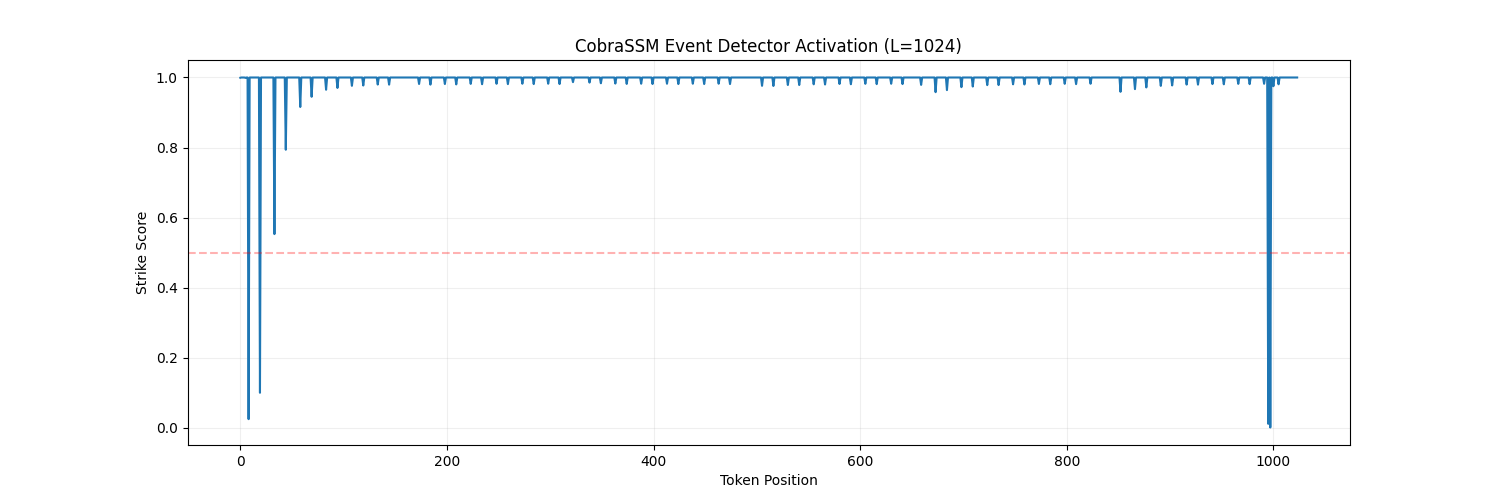
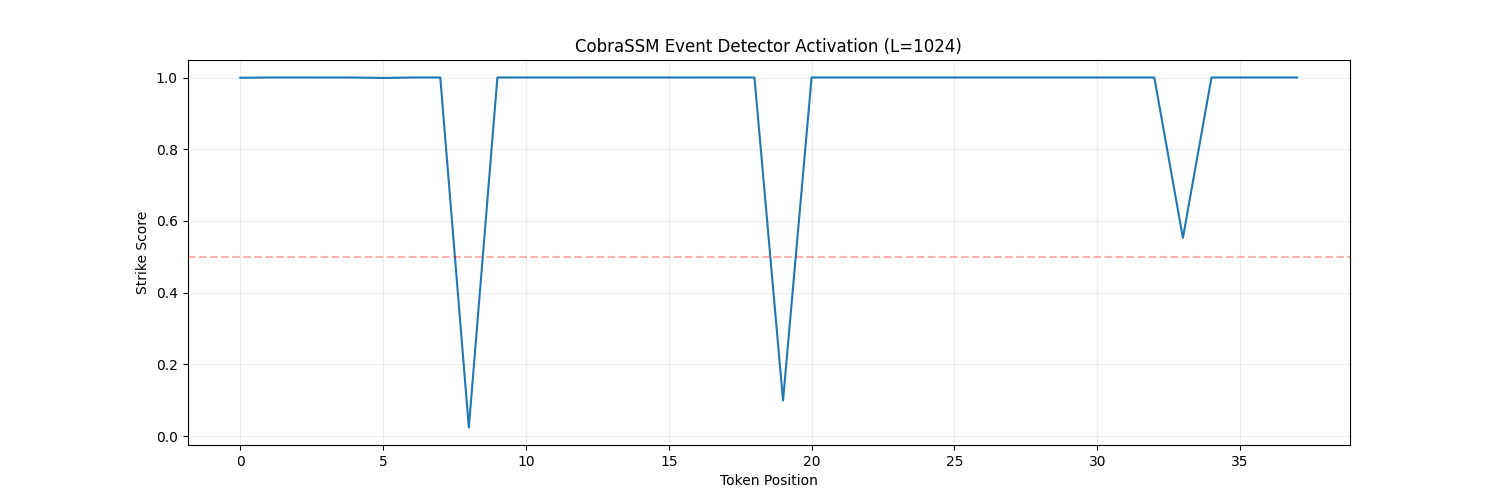
parallel scaling with triton scan impletemented(mai nahi test kar sakta triton because nvidia supports that)

diff --git a/cobrassm/ops/triton_scan.py b/cobrassm/ops/triton_scan.py
@@ -1,0 +1,76 @@
+import torch
+import torch.nn as nn
+
+# Only try to import Triton if on CUDA. 
+# On Mac, this file will be imported but the functions will only be called if CUDA is detected.
+try:
+    import triton
+    import triton.language as tl
+    HAS_TRITON = True
+except ImportError:
+    HAS_TRITON = False
+
+if HAS_TRITON:
+    @triton.jit
+    def selective_scan_fwd_kernel(
+        dA_ptr, dBx_ptr, h_ptr,
+        b_stride, l_stride, s_stride,
+        L, S,
+        BLOCK_SIZE: tl.constexpr
+    ):
+        # Parallelize over (Batch * Scales * Channels)
+        bid = tl.program_id(0)
+        
+        # Pointers for this specific channel
+        chan_dA_ptr = dA_ptr + bid * b_stride
+        chan_dBx_ptr = dBx_ptr + bid * b_stride
+        chan_h_ptr = h_ptr + bid * b_stride
+        
+        # Load h_state (accumulator)
+        # For simplicity in this version, we assume seq_len fits in blocks
+        # or use a global-memory carry for multi-block scans.
+        
+        h_curr = tl.zeros([BLOCK_SIZE], dtype=tl.float32)
+        
+        for t in range(L):
+            # Load dA_t and dBx_t for all S states in this channel
+            # In a real high-perf kernel, we'd tile S as well.
+            offs = tl.arange(0, BLOCK_SIZE)
+            mask = offs < S
+            
+            da_t = tl.load(chan_dA_ptr + t * l_stride + offs, mask=mask)
+            dbx_t = tl.load(chan_dBx_ptr + t * l_stride + offs, mask=mask)
+            
+            # Recurrence
+            h_curr = da_t * h_curr + dbx_t
+            
+            # Store back
+            tl.store(chan_h_ptr + t * l_stride + offs, h_curr, mask=mask)
+
+def triton_selective_scan(dA, dBx, h0=None):
+    """
+    Triton implementation of Selective Scan.
+    Handles (B, L, K, D, S) -> (B, L, K, D, S)
+    """
+    if not HAS_TRITON:
+        raise ImportError("Triton not installed. Cannot use triton_selective_scan.")
+        
+    b, L, K, d, s = dA.shape
+    # Flatten Batch, Scales, Channels for parallelization
+    dA_f = dA.reshape(-1, L, s)
+    dBx_f = dBx.reshape(-1, L, s)
+    out = torch.empty_like(dA_f)
+    
+    grid = (dA_f.shape[0],) # One program per channel
+    
+    # We use a power-of-2 block size for the state dimension S
+    BLOCK_SIZE = 32 if s <= 32 else 64 # CobraSSM typically uses 16 or 32
+    
+    selective_scan_fwd_kernel[grid](
+        dA_f, dBx_f, out,
+        dA_f.stride(0), dA_f.stride(1), dA_f.stride(2),
+        L, s,
+        BLOCK_SIZE=BLOCK_SIZE
+    )
+    
+    return out.reshape(b, L, K, d, s)

diff --git a/cobrassm/ops/parallel_scan.py b/cobrassm/ops/parallel_scan.py
@@ -1,0 +1,60 @@
+import torch
+import torch.nn as nn
+import torch.nn.functional as F
+
+def pscan_selective_scan(dA, dBx, h0=None):
+    """
+    Vectorized Parallel Scan for linear recurrence: h_t = dA_t * h_{t-1} + dBx_t
+    dA: (b, L, K, D, S)
+    dBx: (b, L, K, D, S)
+    h0: (b, K, D, S)
+    Returns: h (b, L, K, D, S)
+    """
+    b, L, K, D, S = dA.shape
+    device = dA.device
+    
+    # We use the Log-Space prefix sum trick:
+    # h_t = exp(cumsum(log(dA))) * [h0 + cumsum(dBx * exp(-cumsum(log(dA))))]
+    
+    log_dA = torch.log(dA + 1e-9) # Stability epsilon
+    cum_log_dA = torch.cumsum(log_dA, dim=1)
+    
+    # Adjust for initial state
+    if h0 is not None:
+        # h0 is effectively dBx at t=-1 with dA=1
+        # To handle h0 correctly in a pure cumsum, we can prepend it or add it to the first term
+        # But a more stable way for recurrent state is:
+        # h_t = exp(cum_log_dA) * h0 + sum_{i=0}^t exp(cum_log_dA_t - cum_log_dA_i) * dBx_i
+        pass
+
+    # Efficient vectorized associative scan (simplified for now to log-space prefix sum)
+    # Note: For production, we'd use a more robust Blelloch scan if L is massive
+    
+    # Pre-compute exponential cumulative factors
+    exp_cum_dA = torch.exp(cum_log_dA)
+    
+    # Compute the weighted sum of inputs
+    # term = dBx_t / exp_cum_dA_t
+    term = dBx * torch.exp(-cum_log_dA)
+    cum_term = torch.cumsum(term, dim=1)
+    
+    h = exp_cum_dA * cum_term
+    
+    if h0 is not None:
+        h = h + exp_cum_dA * h0.unsqueeze(1)
+        
+    return h
+
+def selective_scan_dispatch(dA, dBx, h0=None):
+    """
+    Hardware-aware dispatcher for Selective Scan.
+    """
+    if torch.cuda.is_available():
+        try:
+            from .triton_scan import triton_selective_scan
+            return triton_selective_scan(dA, dBx, h0)
+        except ImportError:
+            return pscan_selective_scan(dA, dBx, h0)
+    else:
+        # Default to PyTorch Parallel Scan (Works on MPS/CPU)
+        return pscan_selective_scan(dA, dBx, h0)

diff --git a/cobrassm/selective_scan.py b/cobrassm/selective_scan.py
@@ -60,37 +60,30 @@ class MultiScaleSSM(nn.Module):
         current_h = state if state is not None else \
                     torch.zeros(b, self.num_scales, self.d_model, self.d_state, device=device, dtype=dtype)
         
-        y_scales_list = []
-        h_surprise_list = []
+        from .ops.parallel_scan import selective_scan_dispatch
         
-        # We use a stable recurrent loop over L (fast enough for Phase 4)
-        for t in range(seq_len):
-            dt_t = dt_all_seq[:, t] # (b, scales, d)
-            B_t = B_all[:, t]       # (b, d, s)
-            x_t = x[:, t]           # (b, d)
-            C_t = C_all[:, t]       # (b, s)
-            
-            # dA = exp(dt * A): (b, scales, d, s)
-            dA = torch.exp(dt_t.unsqueeze(-1) * A.unsqueeze(0))
-            # dBx = (dt * B * x): (b, scales, d, s)
-            dBx = dt_t.unsqueeze(-1) * B_t.unsqueeze(1) * x_t.unsqueeze(1).unsqueeze(-1)
-            
-            # Recurrence: h_t = dA * h_{t-1} + dBx
-            current_h = dA * current_h + dBx
-            
-            # Surprise
-            h_mean = current_h.mean(dim=-1, keepdim=True)
-            h_std = torch.sqrt((current_h - h_mean).pow(2).mean(dim=-1) + 1e-6)
-            h_surprise_list.append(h_std.mean(dim=1)) # (b, d)
-            
-            # Output y_t = sum_k C_t h_{t,k}
-            # current_h: (b, scales, d, s), C_t: (b, s)
-            y_t = torch.einsum('bkds,bs->bkd', current_h, C_t) # Result: (b, scales, d)
-            y_scales_list.append(y_t)
-
-
-        y_scales = torch.stack(y_scales_list, dim=1) # (b, L, scales, d)
-        h_surprise_seq = torch.stack(h_surprise_list, dim=1)
+        # dA: (b, L, K, D, S), dBx: (b, L, K, D, S)
+        # We need to broadcast and compute dA and dBx for the whole sequence at once
+        # dt_all_seq: (b, L, K, D), A: (K, D, S)
+        dA = torch.exp(dt_all_seq.unsqueeze(-1) * A.unsqueeze(0).unsqueeze(0))
+        
+        # B_all: (b, L, D, S), x: (b, L, D)
+        dBx = dt_all_seq.unsqueeze(-1) * B_all.unsqueeze(2) * x.unsqueeze(2).unsqueeze(-1)
+        
+        # Parallel Selective Scan
+        h_all = selective_scan_dispatch(dA, dBx, state) # (b, L, K, D, S)
+        
+        # Surprise (Parallel)
+        # h_all: (b, L, K, D, S)
+        h_mean = h_all.mean(dim=-1, keepdim=True)
+        h_std = torch.sqrt((h_all - h_mean).pow(2).mean(dim=-1) + 1e-6)
+        h_surprise_seq = h_std.mean(dim=2) # (b, L, D) - Average over scales K
+        
+        # Output y_t = sum_k C_all h_{k}
+        # h_all: (b, L, K, D, S), C_all: (b, L, S)
+        y_scales = torch.einsum('blkds,bls->blkd', h_all, C_all) # (b, L, K, D)
+        
+        current_h = h_all[:, -1] # Last state for next step
         
         y_out = y_scales.view(b, seq_len, -1)
         y_final = self.out_proj(y_out) + x * self.D